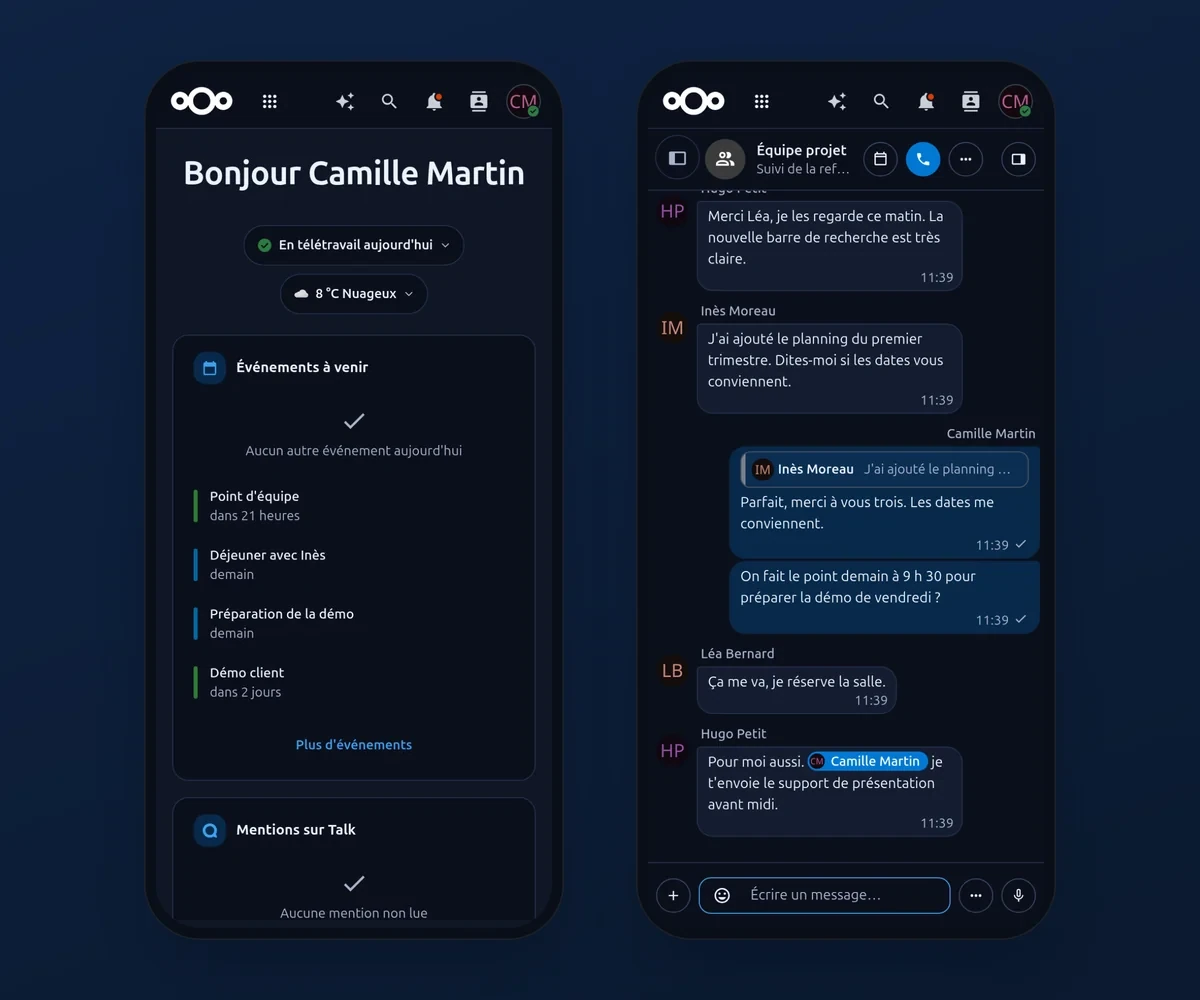
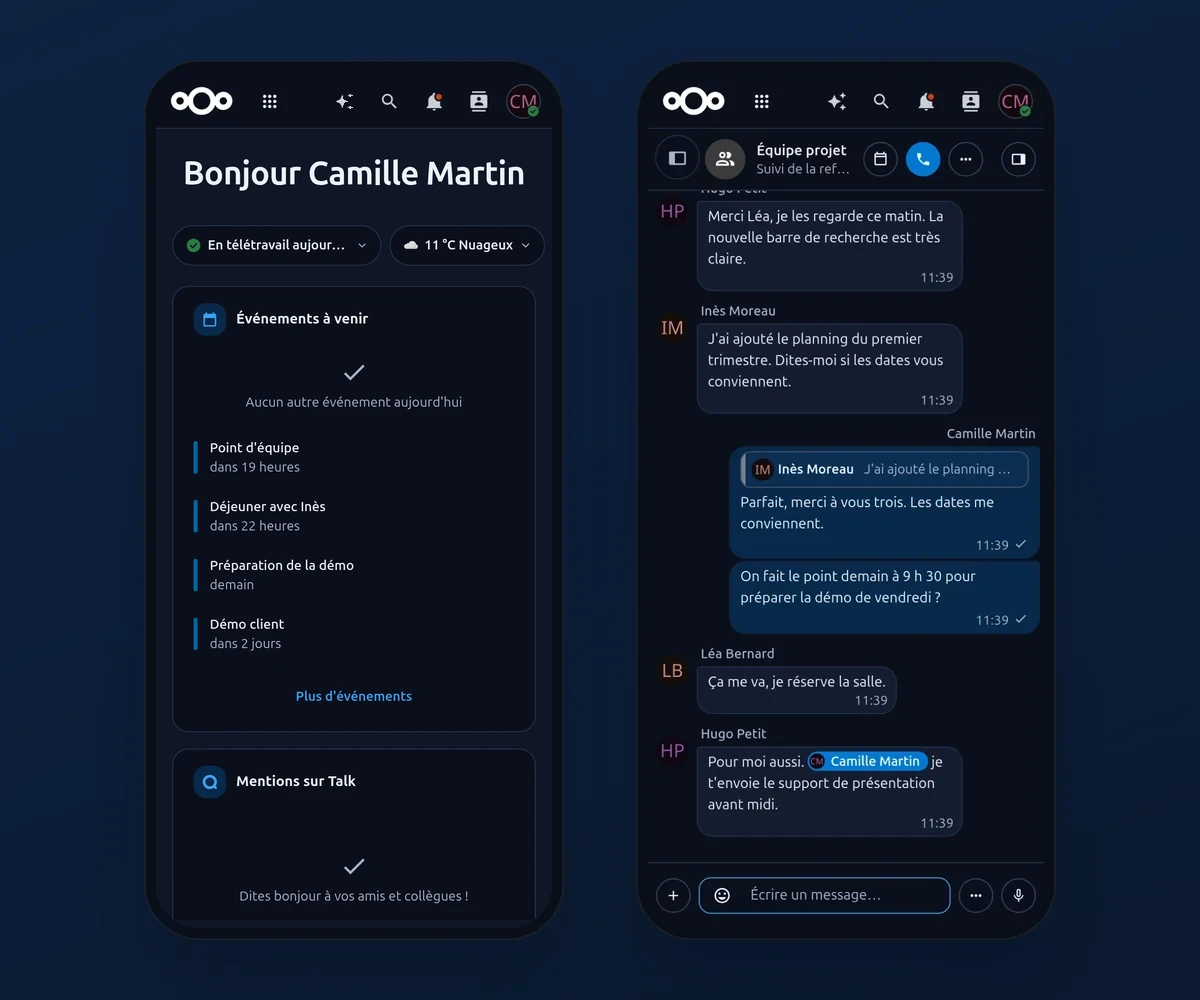
Azure Theme 1.1.2
- Calendar: the full event editor (More details, new event) opens as a centered dialog on desktop instead of full screen; on phones, no empty space at the top and the calendar colour dot is aligned with the icon column
- Dashboard on phones: status and weather on one line
- Dialogs on touch screens: the 44 px close button is centered in the header
- App Store metadata (website, screenshots); updated phone screenshots

diff --git a/scss/calendar/_calendar.scss b/scss/calendar/_calendar.scss
@@ -1248,6 +1248,49 @@
 		.modal-header {
 			visibility: hidden;
 		}
+		// Ordinateur : l'éditeur complet (« Plus de détails », nouvel événement) occupait tout l'écran ;
+		// fenêtre centrée au cadre des autres fenêtres, à la hauteur de son contenu. L'Agenda fixe
+		// position, haut et hauteur en !important (0,4,0) : classe doublée pour passer devant. La
+		// mise en page garde sa largeur de 900 px (deux colonnes), d'où le seuil de 1024 px.
+		@media (min-width: $bp-1024) {
+			.modal-wrapper--full > .modal-container.modal-container {
+				position: relative !important;
+				top: auto !important;
+				width: min(1012px, calc(100% - 48px)) !important;
+				height: auto !important;
+				max-height: calc(100% - 48px) !important;
+				border-radius: $rounded-20 !important;
+			}
+			.app-full {
+				margin-top: 24px;
+			}
+		}
+		// Téléphone : le bouton de fermeture passe dans l'en-tête de l'éditeur ; les 64 px réservés
+		// au-dessus pour l'ancien bouton restaient vides.
+		@media (max-width: 785px) {
+			.app-full {
+				margin-top: 8px;
+			}
+			// Agenda de l'événement (pastille + nom), seul sur sa ligne au téléphone : la pastille
+			// tombait 33 à 38 px à droite de la colonne des icônes (retrait de 32 px du bloc, marges
+			// du bouton, variables selon le tactile). Géométrie fixée : pastille centrée sur la
+			// colonne des icônes, nom aligné sur le bord des champs, comme sur ordinateur.
+			.app-full__header__details-calendar .calendar-picker-header {
+				margin-inline-start: -33px;
+				.button-vue {
+					margin-inline-start: 0 !important;
+					padding-inline-start: 0 !important;
+				}
+				.button-vue__icon,
+				.calendar-picker-header__icon {
+					width: 18px !important;
+					min-width: 18px !important;
+				}
+				.button-vue__text {
+					margin-inline-start: 12px !important;
+				}
+			}
+		}
 		.modal-container#{$fenetre} {
 			@include calendar-event-fields;
 			.calendar-edit-full__default-close {

diff --git a/scss/ui/_modal.scss b/scss/ui/_modal.scss
@@ -894,6 +894,11 @@
 				@media (max-width: $bp-640) {
 					z-index: 2;
 				}
+				// Écran tactile : la croix prend 44 px (cible au doigt) ; placée pour 36 px, elle
+				// touchait le filet sous le titre (11 → 55 px pour un en-tête de 56 px). Recentrée.
+				@media (pointer: coarse) and (max-width: $bp-640) {
+					top: 6px;
+				}
 
 				&:hover {
 					background-color: $colour-primary-50;

diff --git a/scss/dashboard/_dashboard.scss b/scss/dashboard/_dashboard.scss
@@ -83,6 +83,14 @@
 				min-width: 0;
 				max-width: 100%;
 			}
+			// Téléphone : statut et météo sur une seule ligne ; chaque pilule rétrécit au besoin et
+			// son texte se termine par « … ».
+			@media (max-width: $bp-640) {
+				flex-wrap: nowrap;
+				> li {
+					flex: 0 1 auto;
+				}
+			}
 			li button,
 			li .button-vue {
 				box-sizing: border-box;

diff --git a/docs/certification.md b/docs/certification.md
@@ -2,17 +2,35 @@
   - SPDX-FileCopyrightText: 2026 Azure Informatique
   - SPDX-License-Identifier: AGPL-3.0-or-later
 -->
-# Certification du Thème Azure 1.1.1
+# Certification du Thème Azure 1.1.2
 
-Ce document rassemble les vérifications menées avant la publication du Thème Azure 1.1.1 et de la 1.1.0 qu'elle corrige. Elles ont été faites sur des instances de test dédiées (jamais sur des données réelles), puis la version a été déployée et vérifiée sur une instance de production Nextcloud 34.0.6.
+Ce document rassemble les vérifications menées avant la publication du Thème Azure 1.1.2, et celles des versions 1.1.1 et 1.1.0 qu'elle prolonge. Elles ont été faites sur des instances de test dédiées (jamais sur des données réelles), puis la version a été déployée et vérifiée sur une instance de production Nextcloud 34.0.6.
 
 | Élément | Valeur |
 |---|---|
-| Version certifiée | 1.1.1 — étiquette `v1.1.1` (correctif de la 1.1.0, certifiée en totalité ci-dessous) |
+| Version certifiée | 1.1.2 — étiquette `v1.1.2` (correctifs de la 1.1.1 et de la 1.1.0, certifiée en totalité ci-dessous) |
 | Nextcloud | **34.0.6 : vérification complète** ; 35.0.3 et 36.0.0 (préversion du 24 novembre 2026) : contrôle des écrans clés |
 | Navigateur | Chromium 156 (ordinateur 1440 × 900, tablette 1024 et 768, téléphone 390 et 360 par émulation) |
 | Outils | Playwright, axe-core 4.14, PHPUnit 13, Psalm 6 (avec `--taint-analysis`), REUSE 3.3, gitleaks 8 |
 | Date | 25 novembre 2026 |
+
+## Version 1.1.2 : correctifs et non-régression
+
+La 1.1.2 corrige cinq points d'affichage, sans autre changement :
+
+1. **Agenda, éditeur complet** (*Plus de détails*, nouvel événement) : sur ordinateur (1024 px et plus), fenêtre centrée aux coins arrondis, à la hauteur du contenu, au lieu du plein écran ; au téléphone, sans les 64 px vides en haut.
+2. **Agenda au téléphone, agenda de l'événement** : pastille centrée sur la colonne des icônes (elle était 33 à 38 px plus à droite), nom aligné sur le bord des champs.
+3. **Tableau de bord au téléphone** : Statut et Météo sur une seule ligne.
+4. **Fenêtres sur écran tactile** : croix de fermeture de 44 px recentrée dans l'en-tête (elle touchait la ligne sous le titre).
+5. **Fiche de l'app** : site du projet et captures pour le Nextcloud App Store (sans effet sur l'affichage).
+
+| Contrôle | Résultat |
+|---|---|
+| CSS et scripts compilés, comparés au paquet 1.1.1 publié | 3 fichiers sur 157 changent, uniquement par les règles des points 1 à 4 ; scripts identiques |
+| Parcours complet 1.1.1 / 1.1.2 au pixel (tableau de bord, Fichiers, Deck, Talk, Agenda dont l'éditeur complet, Tâches, Formulaires, recherche, paramètres, fenêtres de confirmation ; clair et sombre ; 1440 × 900 et téléphone tactile 390 × 844) | seuls les éléments corrigés changent : éditeur d'Agenda (fenêtre centrée sur ordinateur ; haut de l'éditeur et ligne de l'agenda au téléphone), Statut et Météo au téléphone, croix des fenêtres sur écran tactile (zone de 41 × 47 px) ; tout le reste est identique au pixel. Un écart sans lien avec le thème : exemple de pronoms tiré au hasard par Nextcloud. « Nouvel événement » au téléphone vérifié à part (clair et sombre) |
+| Performances (passes alternées 1.1.1 / 1.1.2) | 6 tours alternés, médianes du recalcul de style (ms) : barre latérale de Fichiers 827 → 801, changement d'onglet 295 → 281, éditeur d'Agenda 92 → 90 ; défilement, fenêtre de confirmation et « Personnaliser » : plages de valeurs identiques d'une version à l'autre (bruit de mesure ; sur ordinateur hors Agenda, aucune règle active ne diffère) : aucune baisse |
+| Tests PHPUnit, tests navigateur, REUSE, gitleaks | PHPUnit 113 tests et 217 assertions, Psalm sans erreur, tests navigateur `jetons.mjs` (41 relevés) et `variantes.mjs`, ESLint et Stylelint sans nouveau signalement, REUSE 3.3, `info.xml` validé par le schéma de l'App Store, gitleaks sans fuite : tout passe |
+| Production (Nextcloud 34.0.6) | déployée et vérifiée le 25 novembre 2026 |
 
 ## Version 1.1.1 : correctifs et non-régression
 
@@ -39,7 +57,7 @@ La 1.1.1 corrige cinq points d'affichage, sans autre changement :
 
 Agenda 6 ouvre les événements dans une fenêtre sans onglets : il n'est pas concerné par le point 1. Dans l'en-tête, le nom de l'app et le bouton du menu sont centrés sur la même ligne (28 px) ; l'encre des points du bouton est 1,5 px plus bas que celle du texte, ce qui tient au dessin de l'icône : rien n'a été modifié. Les sections suivantes restent celles de la certification complète de la 1.1.0, toujours valables pour la 1.1.1.
 
-**Conclusion : le Thème Azure 1.1.1 est certifié.** Aucune faille de sécurité connue, aucune fuite de données, aucune régression fonctionnelle, aucun défaut d'affichage dû au thème sur les écrans vérifiés, et des performances au moins équivalentes à celles de Nextcloud sans le thème.
+**Conclusion : le Thème Azure 1.1.2 est certifié.** Aucune faille de sécurité connue, aucune fuite de données, aucune régression fonctionnelle, aucun défaut d'affichage dû au thème sur les écrans vérifiés, et des performances au moins équivalentes à celles de Nextcloud sans le thème.
 
 ## 1. Sécurité
 

diff --git a/CHANGELOG.md b/CHANGELOG.md
@@ -7,6 +7,22 @@
 
 Les changements notables de ce projet sont consignés dans ce fichier.
 
+## 1.1.2
+
+### Corrections
+- **Agenda, éditeur complet d'un événement** (*Plus de détails*, ou création d'un événement quand l'Agenda ouvre directement l'éditeur complet) : sur ordinateur (1024 px et plus), fenêtre centrée aux coins arrondis, à la hauteur de son contenu (au plus la hauteur de l'écran, contenu défilant), au lieu d'occuper tout l'écran ; la mise en page sur deux colonnes de l'Agenda est conservée. Au téléphone, l'éditeur reste en plein écran, sans les 64 px vides au-dessus des boutons.
+- **Agenda au téléphone, agenda de l'événement** (pastille de couleur et nom, par exemple « Personnel ») : la pastille est alignée sur la colonne des icônes et le nom sur le bord des champs ; elle tombait 33 à 38 px plus à droite. Rien ne change sur ordinateur.
+- **Tableau de bord au téléphone** : Statut et Météo sur une seule ligne ; chaque pilule rétrécit au besoin et son texte se termine par « … ». Rien ne change sur ordinateur.
+- **Fenêtres au téléphone (écran tactile)** : la croix de fermeture, agrandie à 44 px pour le doigt, est recentrée dans l'en-tête ; elle touchait la ligne sous le titre (recherche unifiée et autres fenêtres). Rien ne change à la souris.
+
+### Publication
+- Fiche de l'app (`info.xml`) : site du projet et quatre captures d'écran pour le Nextcloud App Store.
+
+### Non-régression et performances
+- CSS compilé comparé au paquet 1.1.1 : seules les règles ci-dessus changent.
+- Parcours complet 1.1.1 / 1.1.2 comparé au pixel, en clair et en sombre, sur ordinateur et téléphone : seuls les éléments corrigés changent.
+- Performances mesurées identiques à la 1.1.1.
+
 ## 1.1.1
 
 ### Corrections

diff --git a/README.md b/README.md
@@ -53,8 +53,8 @@
 
 ```bash
 cd /path/to/nextcloud/apps        # or custom_apps
-curl -LO https://github.com/Azure-Informatique/nextcloud-azure-theme/releases/latest/download/azure_theme-1.1.1.tar.gz
-tar xzf azure_theme-1.1.1.tar.gz && rm azure_theme-1.1.1.tar.gz
+curl -LO https://github.com/Azure-Informatique/nextcloud-azure-theme/releases/latest/download/azure_theme-1.1.2.tar.gz
+tar xzf azure_theme-1.1.2.tar.gz && rm azure_theme-1.1.2.tar.gz
 chown -R www-data:www-data azure_theme
 sudo -u www-data php ../occ app:enable azure_theme
 ```
